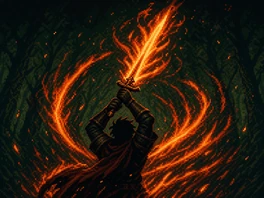
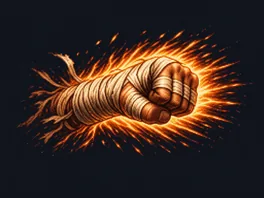
P6.6 카드 아트 20종 — 격투가 주먹/붕대·마도기사 소환 병기 어휘 (Codex 시각 감사)
- 격투가 10종(정권/가드/불꽃 스트레이트/훅/위빙/들숨/연화각/폭렬권/과열권/배기)
  + 시작 셋 잔존 검 아트 2종 교체(점화권·화염 붕대 — 주먹 모티프 재생성)
- 마도기사 8종(충전/명령/완충 방벽/방패 전개/반사판/성채 돌진/조율/쌍병기)
- 전 프롬프트 킷 검증 ok=true·0E + SID provenance(docs/ui/card-art-prompt-validation)
- 브라우저 검증: 격투가/마도기사 전투 카드 검 폴백 0 (캡처 증거)
- 기존 공용 slash/guard 자산은 타 캐릭터 호환 유지
- budget PASS 2.539MiB · 전 게이트 재통과 (422/422·playtest 493·contrast·perf)

diff --git a/apps/ui/src/App.tsx b/apps/ui/src/App.tsx
@@ -92,6 +92,24 @@ import {
 import type { TargetingCommand } from "./targeting";
 import bgForest from "./assets/bg-forest.webp";
 import cardSlash from "./assets/card-slash.webp";
+import cardJab from "./assets/card-jab.webp";
+import cardFistGuard from "./assets/card-fist-guard.webp";
+import cardBurningFist from "./assets/card-burning-fist.webp";
+import cardFlameHook from "./assets/card-flame-hook.webp";
+import cardEmberWeave from "./assets/card-ember-weave.webp";
+import cardSecondWind from "./assets/card-second-wind.webp";
+import cardFireFlurry from "./assets/card-fire-flurry.webp";
+import cardBurnoutBlow from "./assets/card-burnout-blow.webp";
+import cardOverheatStrike from "./assets/card-overheat-strike.webp";
+import cardOverheatVent from "./assets/card-overheat-vent.webp";
+import cardArcaneCharge from "./assets/card-arcane-charge.webp";
+import cardArcaneCommand from "./assets/card-arcane-command.webp";
+import cardAegisPulse from "./assets/card-aegis-pulse.webp";
+import cardShieldSummon from "./assets/card-shield-summon.webp";
+import cardMirrorPlate from "./assets/card-mirror-plate.webp";
+import cardBulwarkCharge from "./assets/card-bulwark-charge.webp";
+import cardWeaponTuning from "./assets/card-weapon-tuning.webp";
+import cardTwinArmory from "./assets/card-twin-armory.webp";
 import cardGuard from "./assets/card-guard.webp";
 import cardBurningStrike from "./assets/card-burning-strike.webp";
 import cardIgnite from "./assets/card-ignite.webp";
@@ -186,6 +204,24 @@ import { TurnBuffBar } from "./turn-buff";
 
 // 생성 에셋 (docs/ui/combat-ui-v2.png 앵커 스타일 — image_gen 산출, 후처리: 크로마 키·리사이즈)
 const CARD_ART: Record<string, string> = {
+  "jab": cardJab,
+  "fist-guard": cardFistGuard,
+  "burning-fist": cardBurningFist,
+  "flame-hook": cardFlameHook,
+  "ember-weave": cardEmberWeave,
+  "second-wind": cardSecondWind,
+  "fire-flurry": cardFireFlurry,
+  "burnout-blow": cardBurnoutBlow,
+  "overheat-strike": cardOverheatStrike,
+  "overheat-vent": cardOverheatVent,
+  "arcane-charge": cardArcaneCharge,
+  "arcane-command": cardArcaneCommand,
+  "aegis-pulse": cardAegisPulse,
+  "shield-summon": cardShieldSummon,
+  "mirror-plate": cardMirrorPlate,
+  "bulwark-charge": cardBulwarkCharge,
+  "weapon-tuning": cardWeaponTuning,
+  "twin-armory": cardTwinArmory,
   slash: cardSlash,
   guard: cardGuard,
   "burning-strike": cardBurningStrike,